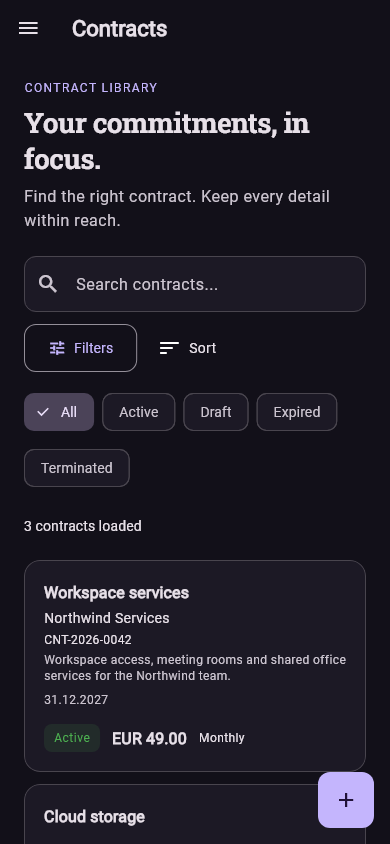
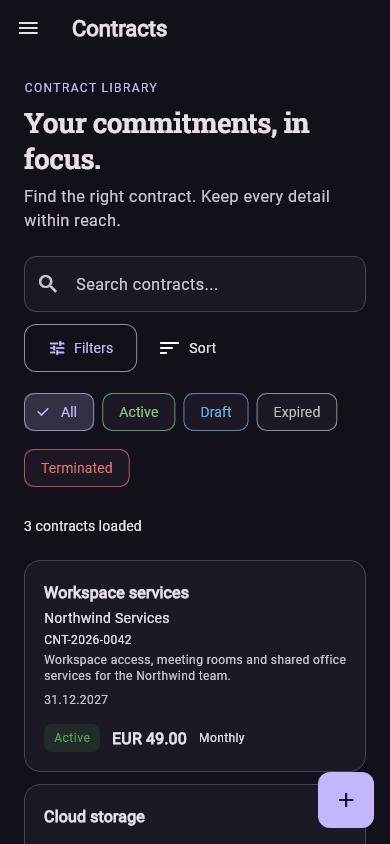
Polish theme branding, navigation and contract status filters

diff --git a/lib/widgets/app_navigation.dart b/lib/widgets/app_navigation.dart
@@ -15,57 +15,68 @@ class AppNavigation extends StatelessWidget {
       (AppRoutes.dashboard, 'Dashboard', Icons.space_dashboard_outlined),
       (AppRoutes.contractList, 'Contracts', Icons.description_outlined),
       (AppRoutes.contractorList, 'Contractors', Icons.business_outlined),
-      (AppRoutes.documentList, 'Files', Icons.folder_open_outlined),
-      (AppRoutes.tenants, 'Tenants', Icons.groups_outlined),
       (AppRoutes.account, 'Account', Icons.person_outline),
       (AppRoutes.settings, 'Settings', Icons.settings_outlined),
     ];
     return Drawer(
         child: SafeArea(
-            child: ListView(
-      padding: const EdgeInsets.all(AppSpace.group),
-      children: [
-        Padding(
-            padding: const EdgeInsets.symmetric(vertical: AppSpace.section),
-            child:
-                Column(crossAxisAlignment: CrossAxisAlignment.start, children: [
-              const QontractWordmark(size: 28),
-              const SizedBox(height: AppSpace.group),
-              Text(auth.user?.email ?? 'Signed in',
-                  style: Theme.of(context).textTheme.bodySmall?.copyWith(
-                      color: Theme.of(context).colorScheme.onSurfaceVariant)),
-            ])),
-        for (final entry in destinations) ...[
-          ListTile(
-            shape:
-                RoundedRectangleBorder(borderRadius: BorderRadius.circular(12)),
-            leading: Icon(entry.$3),
-            title: Text(entry.$2),
-            selected: selectedRoute == entry.$1,
-            selectedTileColor: Theme.of(context).colorScheme.primaryContainer,
-            onTap: () {
-              Navigator.of(context).pop();
-              if (selectedRoute != entry.$1) {
-                Navigator.of(context).pushNamed(entry.$1);
-              }
-            },
-          ),
-          const SizedBox(height: AppSpace.control),
-        ],
-        const Divider(),
-        ListTile(
-            leading: const Icon(Icons.logout),
-            title: const Text('Logout'),
-            onTap: () async {
-              final navigator = Navigator.of(context);
-              navigator.pop();
-              await auth.logout();
-              if (context.mounted) {
-                navigator.pushNamedAndRemoveUntil(
-                    AppRoutes.login, (_) => false);
-              }
-            }),
-      ],
-    )));
+            child: ListTileTheme(
+                data: ListTileTheme.of(context).copyWith(
+                    contentPadding: const EdgeInsets.symmetric(horizontal: 12),
+                    minVerticalPadding: 0,
+                    minTileHeight: 48),
+                child: ListView(
+                  padding: const EdgeInsets.all(AppSpace.group),
+                  children: [
+                    Padding(
+                        padding: const EdgeInsets.symmetric(
+                            vertical: AppSpace.section),
+                        child: Column(
+                            crossAxisAlignment: CrossAxisAlignment.start,
+                            children: [
+                              const QontractWordmark(size: 28),
+                              const SizedBox(height: AppSpace.group),
+                              Text(auth.user?.email ?? 'Signed in',
+                                  style: Theme.of(context)
+                                      .textTheme
+                                      .bodySmall
+                                      ?.copyWith(
+                                          color: Theme.of(context)
+                                              .colorScheme
+                                              .onSurfaceVariant)),
+                            ])),
+                    for (final entry in destinations) ...[
+                      ListTile(
+                        shape: RoundedRectangleBorder(
+                            borderRadius: BorderRadius.circular(12)),
+                        leading: Icon(entry.$3),
+                        title: Text(entry.$2),
+                        selected: selectedRoute == entry.$1,
+                        selectedTileColor:
+                            Theme.of(context).colorScheme.primaryContainer,
+                        onTap: () {
+                          Navigator.of(context).pop();
+                          if (selectedRoute != entry.$1) {
+                            Navigator.of(context).pushNamed(entry.$1);
+                          }
+                        },
+                      ),
+                      const SizedBox(height: 4),
+                    ],
+                    const Divider(),
+                    ListTile(
+                        leading: const Icon(Icons.logout),
+                        title: const Text('Logout'),
+                        onTap: () async {
+                          final navigator = Navigator.of(context);
+                          navigator.pop();
+                          await auth.logout();
+                          if (context.mounted) {
+                            navigator.pushNamedAndRemoveUntil(
+                                AppRoutes.login, (_) => false);
+                          }
+                        }),
+                  ],
+                ))));
   }
 }

diff --git a/test/ui_polish_dark_mode_test.dart b/test/ui_polish_dark_mode_test.dart
@@ -28,8 +28,8 @@ void main() {
 
   testWidgets('dark mode: contractor name is theme-aware (app#32)',
       (tester) async {
-    final api = _FakeApiService(
-        contracts: [], contractors: [_contractor(1, 'Acme')]);
+    final api =
+        _FakeApiService(contracts: [], contractors: [_contractor(1, 'Acme')]);
     final contracts = ContractProvider(api: api);
     final contractors = ContractorProvider(api: api);
     await tester.pumpWidget(
@@ -80,15 +80,14 @@ void main() {
 
     // app#23: the drawer header now carries the brand wordmark; in the
     // dark theme its "ontract" span must stay light (app#32 intent).
-    final wordmarkText = tester.widget<Text>(
-        find.descendant(of: find.byType(QontractWordmark),
-            matching: find.byType(Text)));
+    final wordmarkText = tester.widget<Text>(find.descendant(
+        of: find.byType(QontractWordmark), matching: find.byType(Text)));
     final wSpans = (wordmarkText.textSpan! as TextSpan)
         .children!
         .cast<TextSpan>()
         .toList();
     expect(wSpans.first.text, 'q');
-    expect(wSpans.first.style!.color, Colors.black);
+    expect(wSpans.first.style!.color, AppTheme.dark.colorScheme.primary);
     expect(wSpans.last.text, 'ontract');
     expect(wSpans.last.style!.color, Colors.white);
 
@@ -133,7 +132,8 @@ class _FakeApiService extends ApiService {
   Future<User> me() async => _user();
 
   @override
-  Future<List<Contract>> getContracts({int page = 0, int pageSize = 0, String? status}) async {
+  Future<List<Contract>> getContracts(
+      {int page = 0, int pageSize = 0, String? status}) async {
     if (page == 0 || pageSize == 0) return _contracts;
     final start = (page - 1) * pageSize;
     if (start >= _contracts.length) return [];
@@ -146,7 +146,6 @@ class _FakeApiService extends ApiService {
   @override
   Future<ContractStats> getContractStats() async =>
       throw ApiException(message: 'stats not stubbed', statusCode: 404);
-
 
   @override
   Future<List<Contractor>> getContractors() async => _contractors;

diff --git a/lib/screens/contract/contract_list_screen.dart b/lib/screens/contract/contract_list_screen.dart
@@ -161,6 +161,18 @@ class _ContractListScreenState extends State<ContractListScreen> {
     return true;
   }
 
+  Color _filterColor(String status) {
+    final dark = Theme.of(context).brightness == Brightness.dark;
+    return switch (status) {
+      'active' => dark ? Colors.green.shade300 : Colors.green.shade800,
+      'draft' => dark ? Colors.blue.shade300 : Colors.blue.shade800,
+      'expired' => dark ? Colors.grey.shade400 : Colors.grey.shade700,
+      'terminated' => dark ? Colors.red.shade300 : Colors.red.shade800,
+      'expiring' => dark ? Colors.amber.shade300 : Colors.amber.shade900,
+      _ => Theme.of(context).colorScheme.primary,
+    };
+  }
+
   Widget _controls(Map<int, String> names) {
     final search = TextField(
         key: const Key('contractSearch'),
@@ -243,6 +255,11 @@ class _ContractListScreenState extends State<ContractListScreen> {
           FilterChip(
               key: Key(entry.value),
               label: Text(contractFilterStatuses[entry.key]!),
+              labelStyle: TextStyle(color: _filterColor(entry.key)),
+              checkmarkColor: _filterColor(entry.key),
+              selectedColor: _filterColor(entry.key).withValues(alpha: .14),
+              side: BorderSide(
+                  color: _filterColor(entry.key).withValues(alpha: .45)),
               selected: _filters.status == entry.key,
               onSelected: (_) => _apply(_copy(
                   status: _filters.status == entry.key ? 'all' : entry.key))),
@@ -288,7 +305,9 @@ class _ContractListScreenState extends State<ContractListScreen> {
   @override
   Widget build(BuildContext context) => Scaffold(
       appBar: AppBar(title: const Text('Contracts')),
-      drawer: const AppNavigation(selectedRoute: AppRoutes.contractList),
+      drawer: Navigator.of(context).canPop()
+          ? null
+          : const AppNavigation(selectedRoute: AppRoutes.contractList),
       floatingActionButton: AppBottomActions(
           icon: Icons.add,
           tooltip: 'New Contract',

diff --git a/test/support/overview_design_cases.dart b/test/support/overview_design_cases.dart
@@ -287,10 +287,21 @@ void _overviewCases() {
     await tester.pumpAndSettle();
     expect(find.text('Contracts'), findsOneWidget);
     expect(find.text('Invoices'), findsNothing);
+    expect(find.text('Files'), findsNothing);
+    expect(find.text('Tenants'), findsNothing);
+    final dashboardTile = find
+        .ancestor(
+            of: find.text('Dashboard').last, matching: find.byType(ListTile))
+        .first;
+    expect(tester.getSize(dashboardTile).height, 48);
     await tester.tap(find.text('Contracts'));
     await tester.pumpAndSettle();
     expect(find.byType(ContractListScreen), findsOneWidget);
     expect(find.byType(TextField), findsWidgets);
+    expect(find.byType(BackButton), findsOneWidget);
+    await tester.tap(find.byType(BackButton));
+    await tester.pumpAndSettle();
+    expect(find.byType(DashboardScreen), findsOneWidget);
   });
 
   testWidgets('draft overview opens complete draft results beyond first page',
@@ -509,6 +520,8 @@ void _overviewCases() {
         for (final name in [
           'dashboard',
           'contracts',
+          'contracts-active',
+          'navigation',
           'contract-form',
           'contract-detail',
           'contracts-filters',
@@ -538,6 +551,17 @@ void _overviewCases() {
           }
           if (name == 'contracts-filters') {
             await tester.tap(find.byKey(const Key('openFilters')));
+            await tester.pumpAndSettle();
+          }
+          if (name == 'navigation') {
+            await tester.tap(find.byType(DrawerButton));
+            await tester.pumpAndSettle();
+          }
+          if (name == 'contracts-active') {
+            Navigator.of(tester.element(find.byType(DashboardScreen))).push(
+                MaterialPageRoute<void>(
+                    builder: (_) =>
+                        const ContractListScreen(initialFilter: 'active')));
             await tester.pumpAndSettle();
           }
           await _savePreview(tester, dir, name + (dark ? '-dark' : '-light'));

diff --git a/lib/widgets/wordmark.dart b/lib/widgets/wordmark.dart
@@ -8,7 +8,7 @@ const Color kQontractPurple = Color(0xFF5040E0);
 ///
 /// Two background-aware variants, matching the legacy brand:
 ///  * light backgrounds: purple "q" + black "ontract"
-///  * dark backgrounds:  black "q" + white "ontract"
+///  * dark backgrounds: theme primary "q" + white "ontract"
 ///
 /// The variant is chosen from [Theme.of].brightness by default; pass
 /// [backgroundIsDark] to override (e.g. on a fixed-color surface).
@@ -30,9 +30,10 @@ class QontractWordmark extends StatelessWidget {
 
   @override
   Widget build(BuildContext context) {
-    final dark = backgroundIsDark ??
-        Theme.of(context).brightness == Brightness.dark;
-    final qColor = dark ? Colors.black : kQontractPurple;
+    final dark =
+        backgroundIsDark ?? Theme.of(context).brightness == Brightness.dark;
+    final qColor =
+        dark ? Theme.of(context).colorScheme.primary : kQontractPurple;
     final restColor = dark ? Colors.white : Colors.black;
     final fontSize =
         size ?? Theme.of(context).textTheme.headlineLarge?.fontSize ?? 30;

diff --git a/test/wordmark_test.dart b/test/wordmark_test.dart
@@ -47,12 +47,13 @@ void main() {
     expect(s[1].style!.color, Colors.black);
   });
 
-  testWidgets('dark background: black q + white ontract', (tester) async {
+  testWidgets('dark background: primary q + white ontract', (tester) async {
     await tester.pumpWidget(
         host(const QontractWordmark(), brightness: Brightness.dark));
 
     final s = spans(tester);
-    expect(s[0].style!.color, Colors.black);
+    expect(s[0].style!.color,
+        ThemeData(brightness: Brightness.dark).colorScheme.primary);
     expect(s[1].style!.color, Colors.white);
   });
 
@@ -64,7 +65,8 @@ void main() {
     ));
 
     final s = spans(tester);
-    expect(s[0].style!.color, Colors.black);
+    expect(s[0].style!.color,
+        ThemeData(brightness: Brightness.light).colorScheme.primary);
     expect(s[1].style!.color, Colors.white);
   });
 }

diff --git a/DESIGN.md b/DESIGN.md
@@ -35,6 +35,13 @@ AppFormColumn separates consecutive form controls. AppFormRow stacks related
 fields below 560 logical pixels or with enlarged text. AppNavigation provides
 the shared drawer with an explicit selected destination.
 
+The drawer uses compact 48-pixel rows with horizontal padding only. Its
+destinations are Dashboard, Contracts, Contractors, Account and Settings.
+Tenant management remains accessible through Account; documents are accessed
+from their contracts. On a pushed Contracts page, the app bar shows Back.
+The root Contracts page retains its drawer because there is no previous page.
+The wordmark uses the theme primary colour for its q on dark backgrounds.
+
 ## Information and behaviour
 
 The dashboard is an overview, with no contract rows, search or list filters.
@@ -47,6 +54,9 @@ status. Additional selections live in a staged panel: a bottom sheet on phones,
 a dialog on desktop. Apply commits the draft, Cancel leaves the library untouched,
 and Reset updates both the draft and the visible fields. Active selections appear
 as removable chips, with Clear all as an explicit escape hatch.
+Status labels, borders and selected backgrounds share semantic colours: green
+for Active, blue for Draft, grey for Expired and red for Terminated. Written
+labels and selection checkmarks remain visible; colour is an additional cue.
 
 Search composes with status, contractor, end-date, type and billed-period filters.
 Status-only queries use backend pages; combined filters, search, drafts, terminated
@@ -99,6 +109,8 @@ design pass, not production data.
 | --- | --- | --- |
 | Dashboard | [Preview](docs/previews/dashboard-light.png) | [Preview](docs/previews/dashboard-dark.png) |
 | Contracts | [Preview](docs/previews/contracts-light.png) | [Preview](docs/previews/contracts-dark.png) |
+| Contracts, active filter and Back | [Preview](docs/previews/contracts-active-light.png) | [Preview](docs/previews/contracts-active-dark.png) |
+| Flyout navigation | [Preview](docs/previews/navigation-light.png) | [Preview](docs/previews/navigation-dark.png) |
 | Contract form | [Preview](docs/previews/contract-form-light.png) | [Preview](docs/previews/contract-form-dark.png) |
 | Contract detail | [Preview](docs/previews/contract-detail-light.png) | [Preview](docs/previews/contract-detail-dark.png) |
 | Contractor form | [Preview](docs/previews/contractor-form-light.png) | [Preview](docs/previews/contractor-form-dark.png) |
